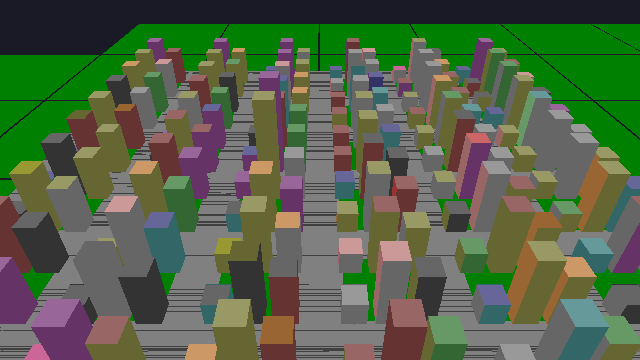
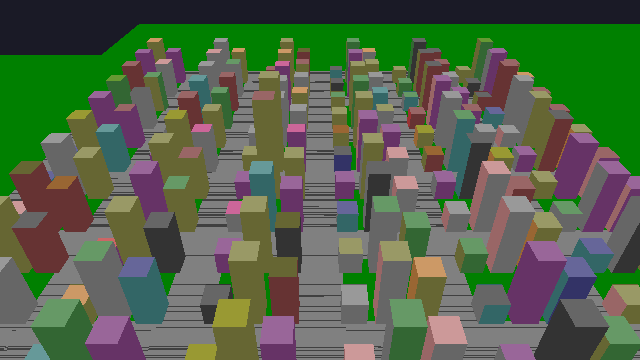
Fix interactive framing and terrain seams

diff --git a/citybuilder/rendering/renderer.py b/citybuilder/rendering/renderer.py
@@ -91,8 +91,6 @@ fn vs_main(@location(0) pos: vec3f,
 """
 
 BUILDING_FS = """
-@group(1) @binding(0) var tex_sampler: sampler;
-@group(1) @binding(1) var tex_array: texture_2d_array<f32>;
 struct FragmentOutput {
     @location(0) color: vec4f,
 };
@@ -100,17 +98,15 @@ struct FragmentOutput {
 fn fs_main(@location(0) color: vec4f,
            @location(1) uv: vec2f,
            @location(2) normal: vec3f) -> FragmentOutput {
-    // Keep the texture binding alive for the data-driven material path, but
-    // use a readable low-frequency palette for the first playable scene.
-    // Sampling the tiled placeholder directly made every facade collapse into
-    // dense diagonal stripes at the game's low internal resolution.
-    var texel = textureSample(tex_array, tex_sampler, uv, 0);
+    // The first playable pass deliberately uses only a low-frequency palette.
+    // The old tiled placeholder texture made close-up facades collapse into
+    // repeated horizontal/diagonal bands at the game's internal resolution.
     var light = max(dot(normalize(normal), normalize(vec3f(-0.45, 0.85, 0.25))), 0.25);
     var base = color.rgb * (0.55 + 0.45 * light);
     var levels = 5.0;
     var quantized = floor(base * levels) / levels;
     var output: FragmentOutput;
-    output.color = vec4f(quantized, color.a * texel.a);
+    output.color = vec4f(quantized, color.a);
     return output;
 }
 """
@@ -214,8 +210,14 @@ def _height_color(h: np.ndarray) -> np.ndarray:
     return c
 
 
-def _segment_ribbon(seg, steps: int = 12, width: float = 6.0):
-    """Build a screen-aligned ribbon along a road segment curve."""
+def _segment_ribbon(seg, steps: int = 2, width: float = 6.0):
+    """Build a ribbon along a road segment curve.
+
+    M1 roads are straight, so use one quad per segment.  Subdividing a
+    straight ribbon into many independent quads creates visible one-pixel
+    seams at the low internal resolution; joined curved-road tessellation can
+    be added when curved roads become playable.
+    """
     pts = seg.curve.sample(steps)
     verts: list[float] = []
     idx: list[int] = []
@@ -237,15 +239,20 @@ def _segment_ribbon(seg, steps: int = 12, width: float = 6.0):
         tx, tz = dx / n, dz / n
         nx, nz = tz, -tx  # normal
         color = (0.5, 0.5, 0.5, 1.0)  # gray road
+        # Extend each end a little so adjacent grid segments overlap at their
+        # shared node instead of leaving a one-pixel perspective seam.
+        extension = 0.5
+        p0x, p0z = p0[0] - tx * extension, p0[1] - tz * extension
+        p1x, p1z = p1[0] + tx * extension, p1[1] + tz * extension
         # quad: p0-left, p0-right, p1-right, p1-left
         # Keep roads decisively above the flat terrain surface.  Drawing both
         # at y=0 makes the depth buffer alternate between the two coplanar
         # meshes, producing the long diagonal/zebra artifacts seen in-game.
         road_y = 0.16
-        v00 = add(p0[0] - nx * half, road_y, p0[1] - nz * half, *color)
-        v01 = add(p0[0] + nx * half, road_y, p0[1] + nz * half, *color)
-        v11 = add(p1[0] + nx * half, road_y, p1[1] + nz * half, *color)
-        v10 = add(p1[0] - nx * half, road_y, p1[1] - nz * half, *color)
+        v00 = add(p0x - nx * half, road_y, p0z - nz * half, *color)
+        v01 = add(p0x + nx * half, road_y, p0z + nz * half, *color)
+        v11 = add(p1x + nx * half, road_y, p1z + nz * half, *color)
+        v10 = add(p1x - nx * half, road_y, p1z - nz * half, *color)
         idx.extend([v00, v01, v11, v00, v11, v10])
     vertices = np.array(verts, dtype=np.float32).reshape(-1, 7)
     indices = np.array(idx, dtype=np.uint32)
@@ -370,11 +377,6 @@ class Renderer:
             fragment={"module": vc, "entry_point": "fs_main",
                       "targets": [{"format": "bgra8unorm"}]},
             primitive={"topology": "triangle-list"},
-            depth_stencil={"format": "depth24plus",
-                            # Crossing ribbons occupy the same plane at
-                            # intersections, so roads are an overlay layer.
-                            "depth_write_enabled": False,
-                            "depth_compare": "always"},
         )
 
         bs = device.create_shader_module(
@@ -390,14 +392,6 @@ class Renderer:
                             "depth_write_enabled": True,
                             "depth_compare": "less"},
         )
-        # Bind group 1 (texture sampler + texture array) for building pipeline
-        self._building_bg1 = self.device.create_bind_group(
-            layout=self.building_pipeline.get_bind_group_layout(1),
-            entries=[
-                {"binding": 0, "resource": self.tex_sampler},
-                {"binding": 1, "resource": self.tex_array_view},
-            ])
-
         us = device.create_shader_module(code=UPSCALE_VS + UPSCALE_FS)
         self.upscale_pipeline = device.create_render_pipeline(
             layout="auto",
@@ -533,22 +527,44 @@ class Renderer:
             rpass.set_index_buffer(chunk["ib"],
                                    wgpu.IndexFormat.uint32)
             rpass.draw_indexed(chunk["count"], 1, 0, 0, 0)
+        rpass.end()
+
+        # Roads are a flat color overlay.  Keeping them out of the depth pass
+        # avoids Vulkan depth interpolation cracks along their coplanar quads.
         if self.road_count:
+            rpass = encoder.begin_render_pass(
+                color_attachments=[{
+                    "view": self.internal_view,
+                    "load_op": "load",
+                    "store_op": "store",
+                }])
             rpass.set_pipeline(self.road_pipeline)
             rpass.set_bind_group(0, self.uniforms_bind_group_for(self.road_pipeline))
             rpass.set_vertex_buffer(0, self._gpu_buffers["road_vb"], 0)
             rpass.set_index_buffer(self._gpu_buffers["road_ib"],
                                    wgpu.IndexFormat.uint32)
             rpass.draw_indexed(self.road_count, 1, 0, 0, 0)
+            rpass.end()
+
         if self.building_count:
+            rpass = encoder.begin_render_pass(
+                color_attachments=[{
+                    "view": self.internal_view,
+                    "load_op": "load",
+                    "store_op": "store",
+                }],
+                depth_stencil_attachment={
+                    "view": self.depth_view,
+                    "depth_load_op": "load",
+                    "depth_store_op": "store",
+                })
             rpass.set_pipeline(self.building_pipeline)
             rpass.set_bind_group(0, self.uniforms_bind_group_for(self.building_pipeline))
-            rpass.set_bind_group(1, self._building_bg1)
             rpass.set_vertex_buffer(0, self._gpu_buffers["building_vb"], 0)
             rpass.set_index_buffer(self._gpu_buffers["building_ib"],
                                    wgpu.IndexFormat.uint32)
             rpass.draw_indexed(self.building_count, 1, 0, 0, 0)
-        rpass.end()
+            rpass.end()
 
     def read_internal(self):
         """Copy the internal low-res target to CPU and return RGBA uint8 (H, W, 4)."""

diff --git a/citybuilder/worldgen/__init__.py b/citybuilder/worldgen/__init__.py
@@ -14,20 +14,21 @@ def generate_chunk(cx: int, cy: int, seed: int, chunk_size: int = 64) -> np.ndar
     Deterministic in (cx, cy, seed). Placeholder noise until real terrain
     generation is implemented at M1.5.
     """
-    import hashlib
-
-    h = int(hashlib.sha256(f"{seed}:{cx}:{cy}".encode()).hexdigest()[:16], 16)
-    rng = np.random.default_rng(h % (2**32))
     # Keep the first playable city on a stable ground plane.  The earlier
     # placeholder varied from below zero to almost two world units, while
     # roads and building foundations were flat; that caused roads to dive in
     # and out of the terrain and read as diagonal geometry corruption.  Leave
     # only a gentle variation for a little visual breakup until roads can
     # conform to a fully featured heightmap.
-    xs = np.linspace(0, 4, chunk_size, dtype=np.float32)
-    ys = np.linspace(0, 4, chunk_size, dtype=np.float32)
+    # Use world coordinates rather than chunk-local coordinates.  Independent
+    # per-chunk phases create visible cracks/z-fighting at every chunk edge.
+    world_scale = max(float(chunk_size), 1.0)
+    xs = (np.linspace(0, chunk_size, chunk_size, dtype=np.float32)
+          + cx * chunk_size) / world_scale
+    ys = (np.linspace(0, chunk_size, chunk_size, dtype=np.float32)
+          + cy * chunk_size) / world_scale
     X, Y = np.meshgrid(xs, ys)
-    waves = (np.sin(X + h * 0.01) + np.cos(Y * 1.3 + h * 0.01)) * 0.5
+    seed_phase = float(seed % 997) * 0.01
+    waves = (np.sin(X + seed_phase) + np.cos(Y * 1.3 + seed_phase)) * 0.5
     hmap = 0.08 + 0.025 * waves
-    hmap += 0.01 * rng.normal(size=(chunk_size, chunk_size)).astype(np.float32)
     return hmap.astype(np.float32)

diff --git a/citybuilder/camera.py b/citybuilder/camera.py
@@ -19,7 +19,7 @@ class Camera:
     def __init__(self):
         self.target = [0.0, 0.0, 0.0]  # orbit center (world)
         self.yaw = 0.0                  # radians, 0 = looking along +X
-        self.distance = 40.0            # zoom
+        self.distance = 120.0           # zoom; frame the initial demo city
         self.tilt = math.radians(35.0)  # fixed tilt above horizon
 
         # Smoothing: target values that the camera interpolates toward.
@@ -58,7 +58,10 @@ class Camera:
         for i in range(3):
             self.target[i] += (self._target_target[i] - self.target[i]) * k
         # clamp zoom
-        self.distance = max(5.0, min(self.distance, 200.0))
+        # Do not let the interactive camera enter a building/road mesh.  The
+        # old 5-unit minimum exposed coplanar facade and road geometry as
+        # giant bands after a few zoom-in inputs.
+        self.distance = max(48.0, min(self.distance, 220.0))
 
     # -- derived view data ------------------------------------------------------
     def position(self) -> tuple[float, float, float]:

diff --git a/citybuilder/world/chunks.py b/citybuilder/world/chunks.py
@@ -106,8 +106,10 @@ def build_chunk_mesh(chunk: Chunk) -> tuple[np.ndarray, np.ndarray]:
     # world offset of the chunk's lower-left corner
     ox = chunk.cx * size
     oz = chunk.cy * size
-    xs = np.linspace(0, size - 1, n, dtype=np.float32) + ox
-    zs = np.linspace(0, size - 1, n, dtype=np.float32) + oz
+    # Include the full chunk interval so adjacent chunks share the boundary
+    # at ox + size / oz + size rather than leaving a one-unit crack.
+    xs = np.linspace(0, size, n, dtype=np.float32) + ox
+    zs = np.linspace(0, size, n, dtype=np.float32) + oz
     X, Z = np.meshgrid(xs, zs)
     Y = hmap.astype(np.float32)
     vertices = np.stack([X, Y, Z], axis=-1).reshape(-1, 3).astype(np.float32)
@@ -123,4 +125,3 @@ def build_chunk_mesh(chunk: Chunk) -> tuple[np.ndarray, np.ndarray]:
             idx.append([v10, v01, v11])
     indices = np.array(idx, dtype=np.uint32).reshape(-1)
     return vertices, indices
-

diff --git a/tests/test_chunks.py b/tests/test_chunks.py
@@ -28,6 +28,15 @@ def test_placeholder_ground_stays_below_road_overlay():
     assert float(chunk.heightmap.max()) < 0.16
 
 
+def test_adjacent_chunks_share_continuous_boundaries():
+    manager = ChunkManager(seed=42, chunk_size=32)
+    left = manager.ensure(0, 0)
+    right = manager.ensure(1, 0)
+    lower = manager.ensure(0, 1)
+    assert np.allclose(left.heightmap[:, -1], right.heightmap[:, 0])
+    assert np.allclose(left.heightmap[-1, :], lower.heightmap[0, :])
+
+
 def test_update_loads_around_camera():
     import numpy as np
     m = ChunkManager(seed=7, chunk_size=16, max_chunks=100)

diff --git a/PROGRESS.md b/PROGRESS.md
@@ -11,9 +11,9 @@
 - Implemented independent per-chunk static terrain GPU meshes. Each visible chunk has its own vertex/index buffers and draw call, so future streaming edits need not invalidate the entire terrain scene.
 - Expanded the deterministic demo to an 84-segment 7x7 road grid with 216 varied procedural buildings across the blocks.
 - Fixed the interactive debug overlay: the bitmap HUD was incorrectly mapped over a fullscreen quad, stretching green glyphs and pixels across the scene. It now renders only the written bitmap region at crisp 2x scale in the top-left.
-- Replaced the tiled placeholder facade texture in the first scene with readable banded building colors and face lighting; the texture binding remains available for later material work.
-- Stabilized the first playable ground layer: placeholder terrain is kept below the road overlay, roads are lifted above terrain, and road depth writes are disabled so grid intersections do not fight in the depth buffer.
-- Exercised the real interactive RenderCanvas loop under a virtual X display without runtime errors. Current automated result: 47 tests passed, screenshots rendered at 0°, 45°, and 90°, and the 12-angle rotation sweep passed. `scripts/check_all.sh` passes.
+- Replaced the tiled placeholder facade texture in the first scene with readable banded building colors and face lighting; the first playable pass no longer samples the placeholder texture.
+- Stabilized the first playable ground layer: terrain is generated from continuous world coordinates, adjacent chunks share exact boundaries, roads sit above the ground in a separate color pass, and the interactive camera starts at the same readable city framing as headless screenshots.
+- Exercised the real interactive RenderCanvas loop under a virtual X display without runtime errors. Current automated result: 48 tests passed, screenshots rendered at 0°, 45°, and 90°, and the 12-angle rotation sweep passed. `scripts/check_all.sh` passes.
 
 ## Broken
 
